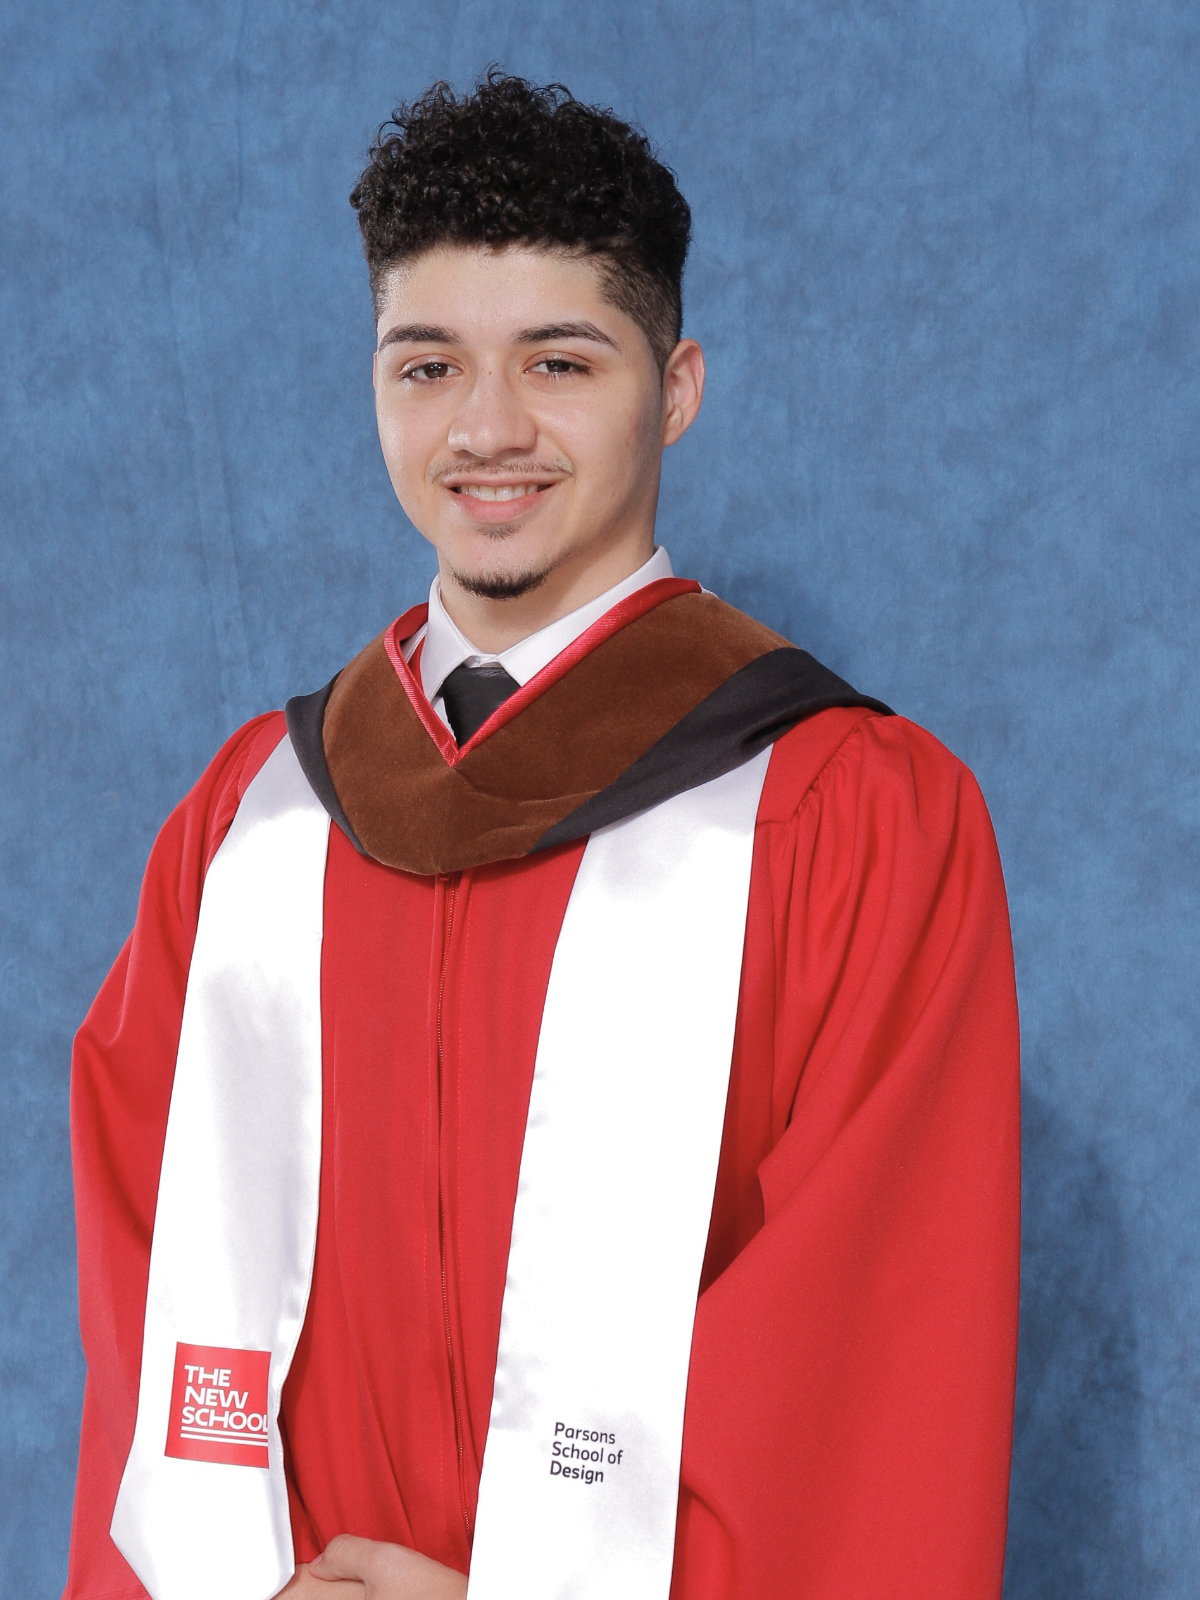
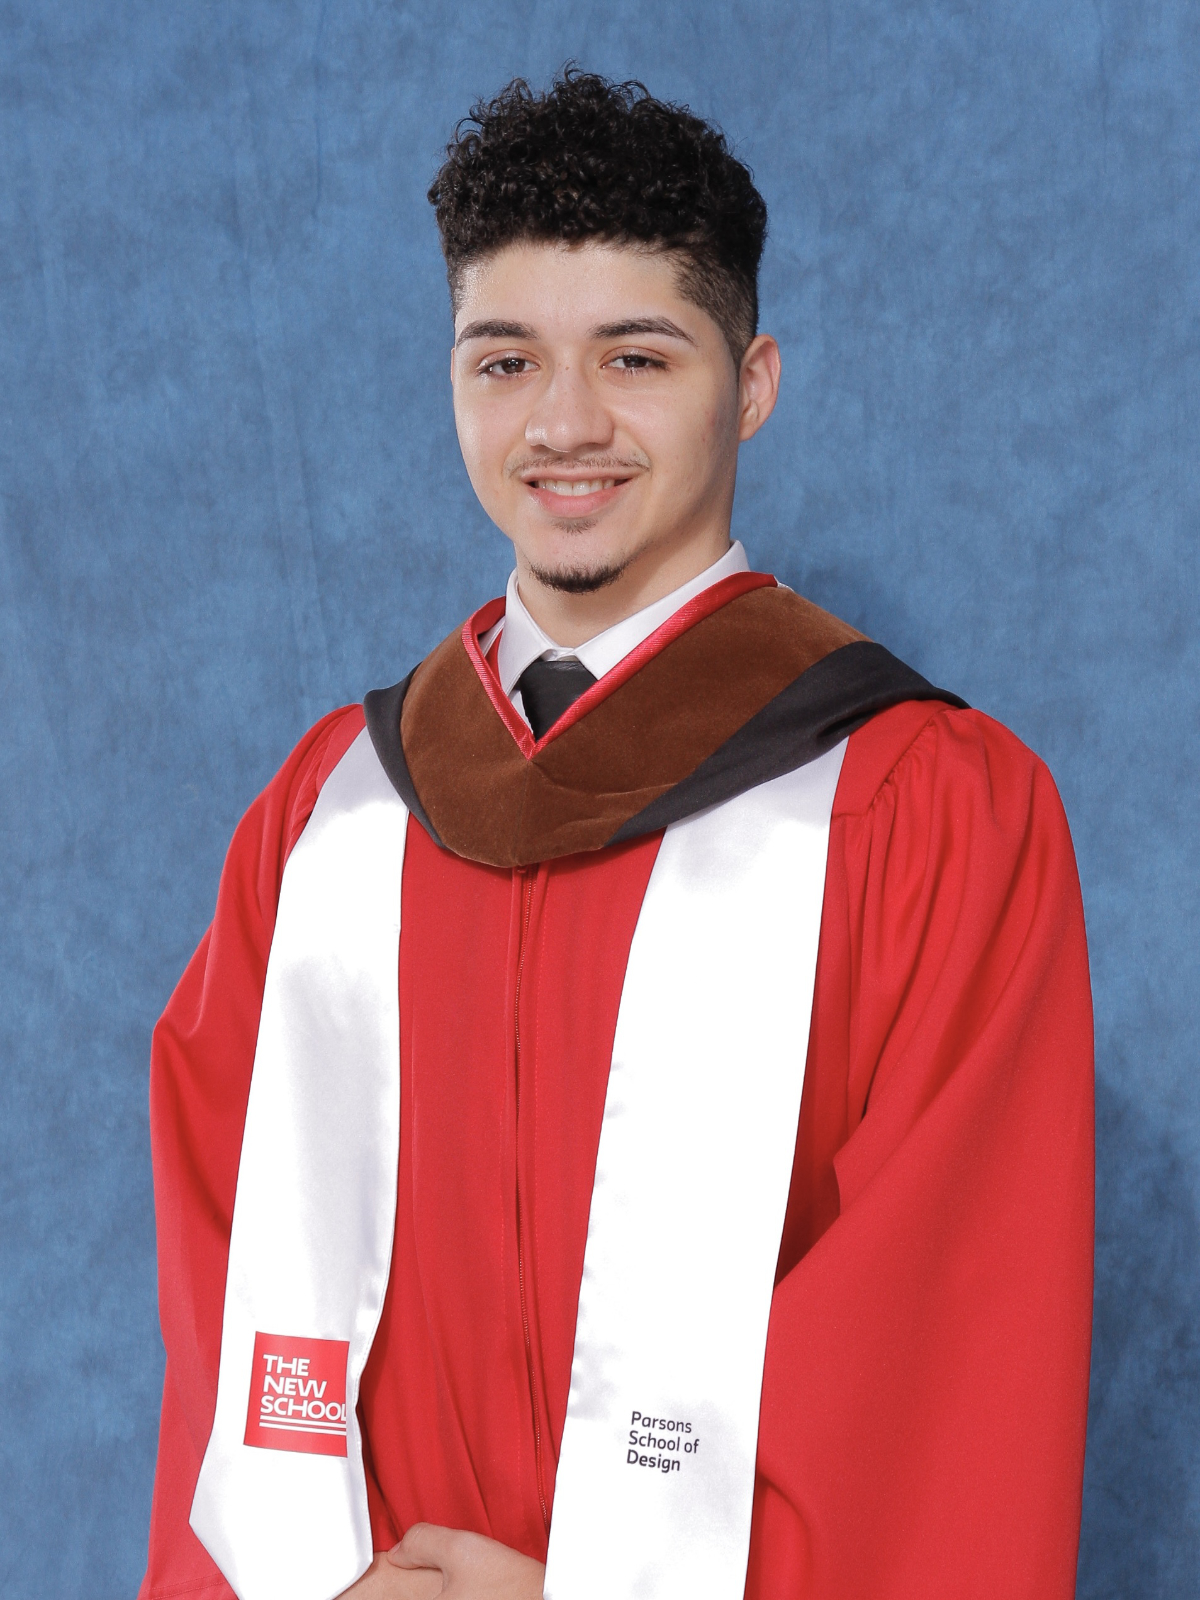
about section pt 2

diff --git a/portfolio-website/src/components/AboutSection/AboutSection.jsx b/portfolio-website/src/components/AboutSection/AboutSection.jsx
@@ -1,22 +1,64 @@
-import React, { useContext } from 'react';
+import React, { useContext, useRef, useCallback } from 'react';
 
 import { ScreenSizeContext } from '../../contexts/ScreenSize';
 
 import styles from './AboutSection.module.css';
 
-import { getAboutItem, aboutMedia } from '../../data/aboutMedia';
+import { getAboutItem } from '../../data/aboutMedia';
 import { IslandButton, SolidButton } from '../Button/Button';
 
 export const AboutSection = () => {
   const {size} = useContext(ScreenSizeContext);
+  const mediaRef = useRef(null);
+
+  const setMedia = useCallback((id = 'default') => {
+    if (!mediaRef.current)
+      return;
+      
+    const imgElement = mediaRef.current;
+    const mediaItem = getAboutItem(id);
+    
+    
+    // Step 1: Remove transition and flash white immediately
+    imgElement.style.transition = 'none';
+    imgElement.style.filter = 'brightness(300%) contrast(50%)';
+    
+    // Step 2: Force a browser reflow
+    void imgElement.offsetHeight;
+    
+    
+    // Step 3: Add transition and prepare for image swap
+    imgElement.style.transition = 'filter 1s cubic-bezier(0.7, 0, 0.3, 1)';
+    
+    // Step 4: Load new image after brief delay
+    setTimeout(() => {
+      imgElement.src = mediaItem.src;
+      imgElement.alt = mediaItem.alt;
+      
+      // Step 5: Once new image is loaded, fade back to normal
+      imgElement.onload = () => {
+        // Small delay to ensure transition is ready
+        requestAnimationFrame(() => {
+          imgElement.style.filter = 'brightness(100%) contrast(100%)';
+        });
+      };
+
+    }, 20);
+  }, [mediaRef]);
+
+
 
   return (
     <section 
       id='about'
-      className={styles.aboutSection}
+      className={`
+        ${styles.aboutSection} 
+        ${styles[size]}`
+      }
       >
       <img 
         className={styles.aboutMedia}
+        ref={mediaRef}
         src={getAboutItem().src}
         alt={getAboutItem().alt}
       />
@@ -26,16 +68,16 @@ export const AboutSection = () => {
             About Myself
           </h1>
           <p>
-            I currently volunteer as a Transitional Fellow for the <a target='_blank' href='https://www.egdcollective.org/transitional-program'>EGD Collective's Game Studio Program</a> where I lead the design team's balancing division.
+            <button type='button' onClick={() => setMedia('default')}>Currently</button> I volunteer as a Transitional Fellow for the <a target='_blank' href='https://www.egdcollective.org/transitional-program'>EGD Collective's Game Studio Program</a> where I lead the design team's balancing division.
           </p>
           <p>
             I'm now seeking full-time opportunities to bring my design expertise to the video games industry.
           </p>
           <p>
-            I graduated from Parsons School of Design in Spring 2022 with a BFA in Design & Technology with a focus in Game Design.
+            <button type='button' onClick={() => setMedia('graduated')}>I graduated from Parsons School of Design</button> in Spring 2022 with a BFA in Design & Technology with a focus in Game Design.
           </p>
           <p>
-            During the Summer of 2021 I interned as a Game Designer at <a target='_blank' href='https://www.massdigi.org'>MassDigi</a>, where I prototyped & fine-tuned player progression systems for Clock Out!!.
+            During the Summer of 2021 I interned as a Game Designer at <a target='_blank' href='https://www.massdigi.org'>MassDigi</a>, where I prototyped & fine-tuned player progression systems for <a href=''><i>Clock Out!!</i></a>.
           </p>
           <p>
             In my spare time I enjoy reading new books, lifting weights, and dancing Salsa at socials.

diff --git a/portfolio-website/src/components/AboutSection/AboutSection.module.css b/portfolio-website/src/components/AboutSection/AboutSection.module.css
@@ -3,25 +3,30 @@
   width: 100%;
   justify-content: center;
   align-items: center;
-  gap: 5rem;
   padding: 5rem 2rem;
+  gap: 5%;
   flex-wrap: wrap;
 }
 
 .aboutMedia {
   display: flex;
   aspect-ratio: 3/4;
-  width: calc(50% - (2.5rem));
+  width: calc(50% - (2.5%));
   min-width: 18.75rem; /* 300px */
   max-width: 37.5rem; /* 600px */
   max-height: 50rem; /* 800px */
   border-radius: var(--number-cornerRadius);
   box-shadow: var(--fx-boxShadow1);
+
+  /* Ensures smooth image swaps */
+  backface-visibility: hidden;
+  transform: translateZ(0);
+  -webkit-font-smoothing: subpixel-antialiased;
 }
 
 .aboutContent {
   display: flex;
-  width: calc(50% - (2.5rem));
+  width: calc(50% - (2.5%));
   min-width: 18.75rem; /* 300px */
   max-width: 37.5rem; /* 600px */
   max-height: 50rem; /* 800px */

diff --git a/portfolio-website/src/typography.css b/portfolio-website/src/typography.css
@@ -99,10 +99,27 @@ p {
 a {
   font-family: var(--body-text);
   color: var(--color-link);
+  transition: var(--menuControl-hover);
 
   &:hover { color: var(--color-link-hover) }
 
-  &:hover { color: var(--color-link-active) }
+  &:active { 
+    color: var(--color-link-active);
+    transition: var(--menuControl-active);
+  }
+}
+
+button {
+  font-family: var(--body-text);
+  color: var(--color-action);
+  transition: var(--menuControl-hover);
+
+  &:hover { color: var(--color-action-hover) }
+
+  &:active { 
+    color: var(--color-action-active);
+    transition: var(--menuControl-active);
+  }
 }
 
 b {

diff --git a/portfolio-website/src/vars.css b/portfolio-website/src/vars.css
@@ -46,6 +46,7 @@
     --menuControl-hover: all 350ms cubic-bezier(0.21, 0.65, 0.32, 0.89);
     --menuControl-active: all 100ms ease;
     --anim-splash: cubic-bezier(0.4, 0, 0.2, 1);
+    --trans-develop: filter 3.5s cubic-bezier(0.7, 0, 0.3, 1);
 
     /* Waves-Style Button */
     --trans-tide: 800ms cubic-bezier(0.45, 0.05, 0.55, 0.95);

diff --git a/portfolio-website/src/data/aboutMedia.js b/portfolio-website/src/data/aboutMedia.js
@@ -10,7 +10,7 @@ export const createAboutItem = ({
 
 export const defaultImage = createAboutItem({
   id: 'default',
-  src: '/../../images/about/default.jpg',
+  src: '/../../images/about/currently.jpg',
   alt: "a portrait image of me smiling in a black polo shirt. Behind me is a wall of grass."
 });
 

diff --git a/portfolio-website/src/components/Button/Button.jsx b/portfolio-website/src/components/Button/Button.jsx
@@ -28,13 +28,14 @@ export const CreateButton = memo(({
   };
 
   return (
-    <a
+    <button
+      type="button"
       href={url}
       className={`${styles.button} ${styles[style]}`}
       onClick={handleClick}
     >
       <span>{title}</span>
-    </a>
+    </button>
   );
 });
 

diff --git a/portfolio-website/src/index.css b/portfolio-website/src/index.css
@@ -11,3 +11,12 @@
 html {
   overscroll-behavior-y: none;
 }
+
+button, input[type="submit"], input[type="reset"] {
+	background: none;
+	color: inherit;
+	border: none;
+	padding: 0;
+	font: inherit;
+	outline: inherit;
+}

diff --git a/portfolio-website/src/components/Button/Button.module.css b/portfolio-website/src/components/Button/Button.module.css
@@ -15,6 +15,7 @@
   z-index: 0;
   padding: var(--padding-size) calc(var(--padding-size) * 2);
   text-decoration: none;
+  
 }
 
 .button::before {
